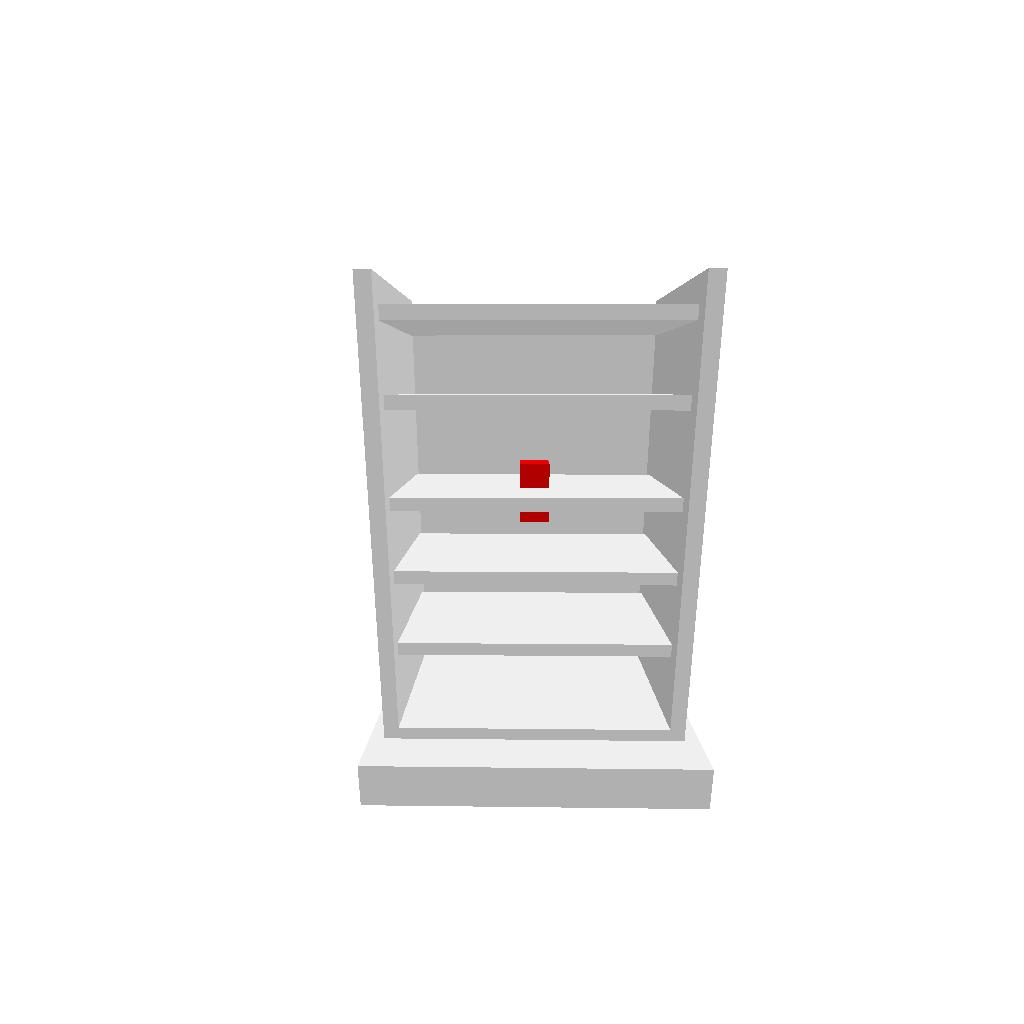
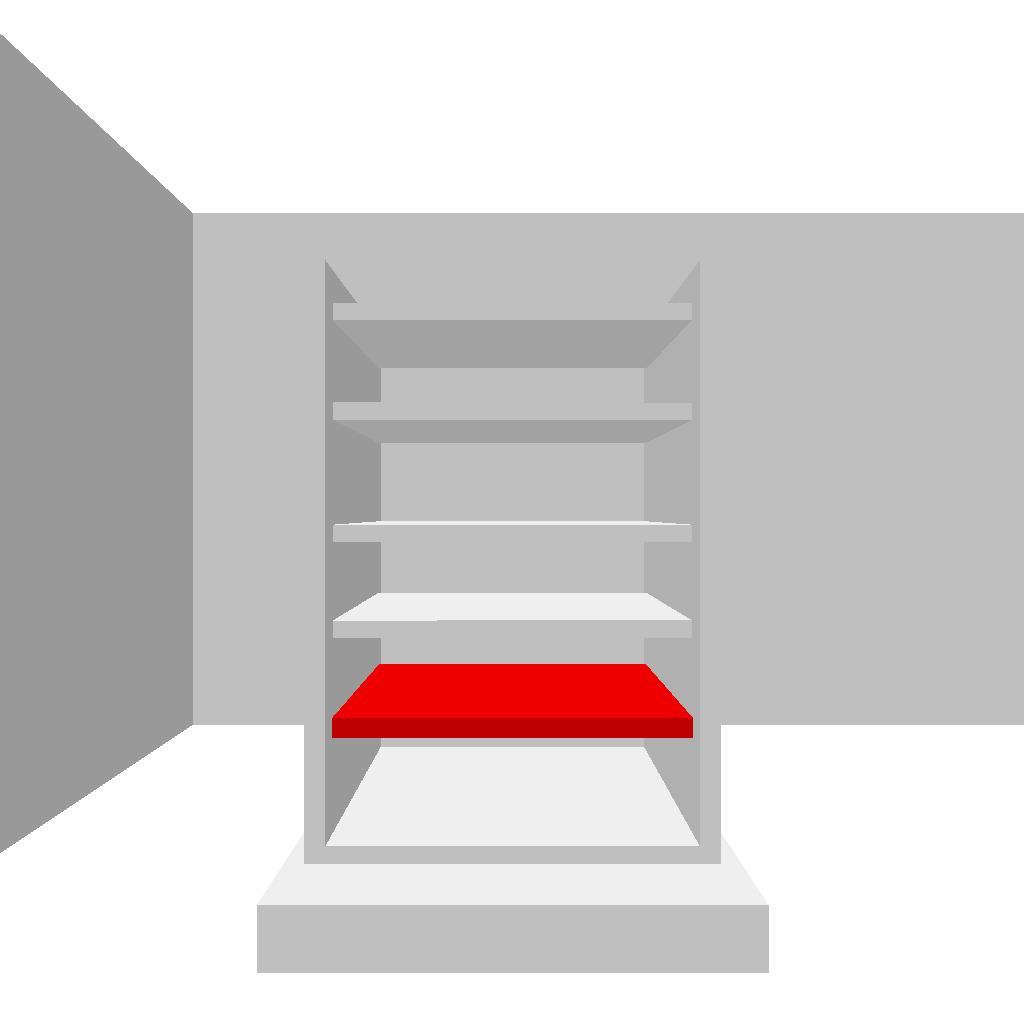
room vis

diff --git a/templates/vis_img.html b/templates/vis_img.html
@@ -5,7 +5,14 @@
 {% endblock %}-->
 
 {% block content %}
-<a href="/" height="100%" width="100%" style="height:100%: width:100%;" >
-<img src="{{url_for('static', filename='images/vis.jpg')}}?{{ range(1, 51) | random }}" height="100%" width="100%" style="height:100%: width:100%;"/>
+<a href="/" >
+  <div class="row">
+    <div class="column">
+    <img src="{{url_for('static', filename='images/vis_room.jpg')}}?{{ range(1, 200) | random }}" height="100%" width="50%"/>
+    </div>
+  <div class="column">
+<img src="{{url_for('static', filename='images/vis.jpg')}}?{{ range(1, 200) | random }}" height="100%" width="50%" />
+</div>
+
 </a>
 {% endblock %}

diff --git a/static/css/vis_img.css b/static/css/vis_img.css
@@ -4,3 +4,16 @@ img{
   height:100%;
   object-fit: cover;
 }
+
+.column {
+  float: left;
+  width: 48%;
+  padding: 5px;
+}
+
+/* Clearfix (clear floats) */
+.row::after {
+  content: "";
+  clear: both;
+  display: table;
+}

diff --git a/app.py b/app.py
@@ -19,6 +19,6 @@ def send_product(product):
     #print(req)
     msg = str(req).replace("'", '"')
     print(msg)
-    #pub.publish(String(msg))
+    pub.publish(String(msg))
     vis_service(msg)
     return render_template("vis_img.html")
